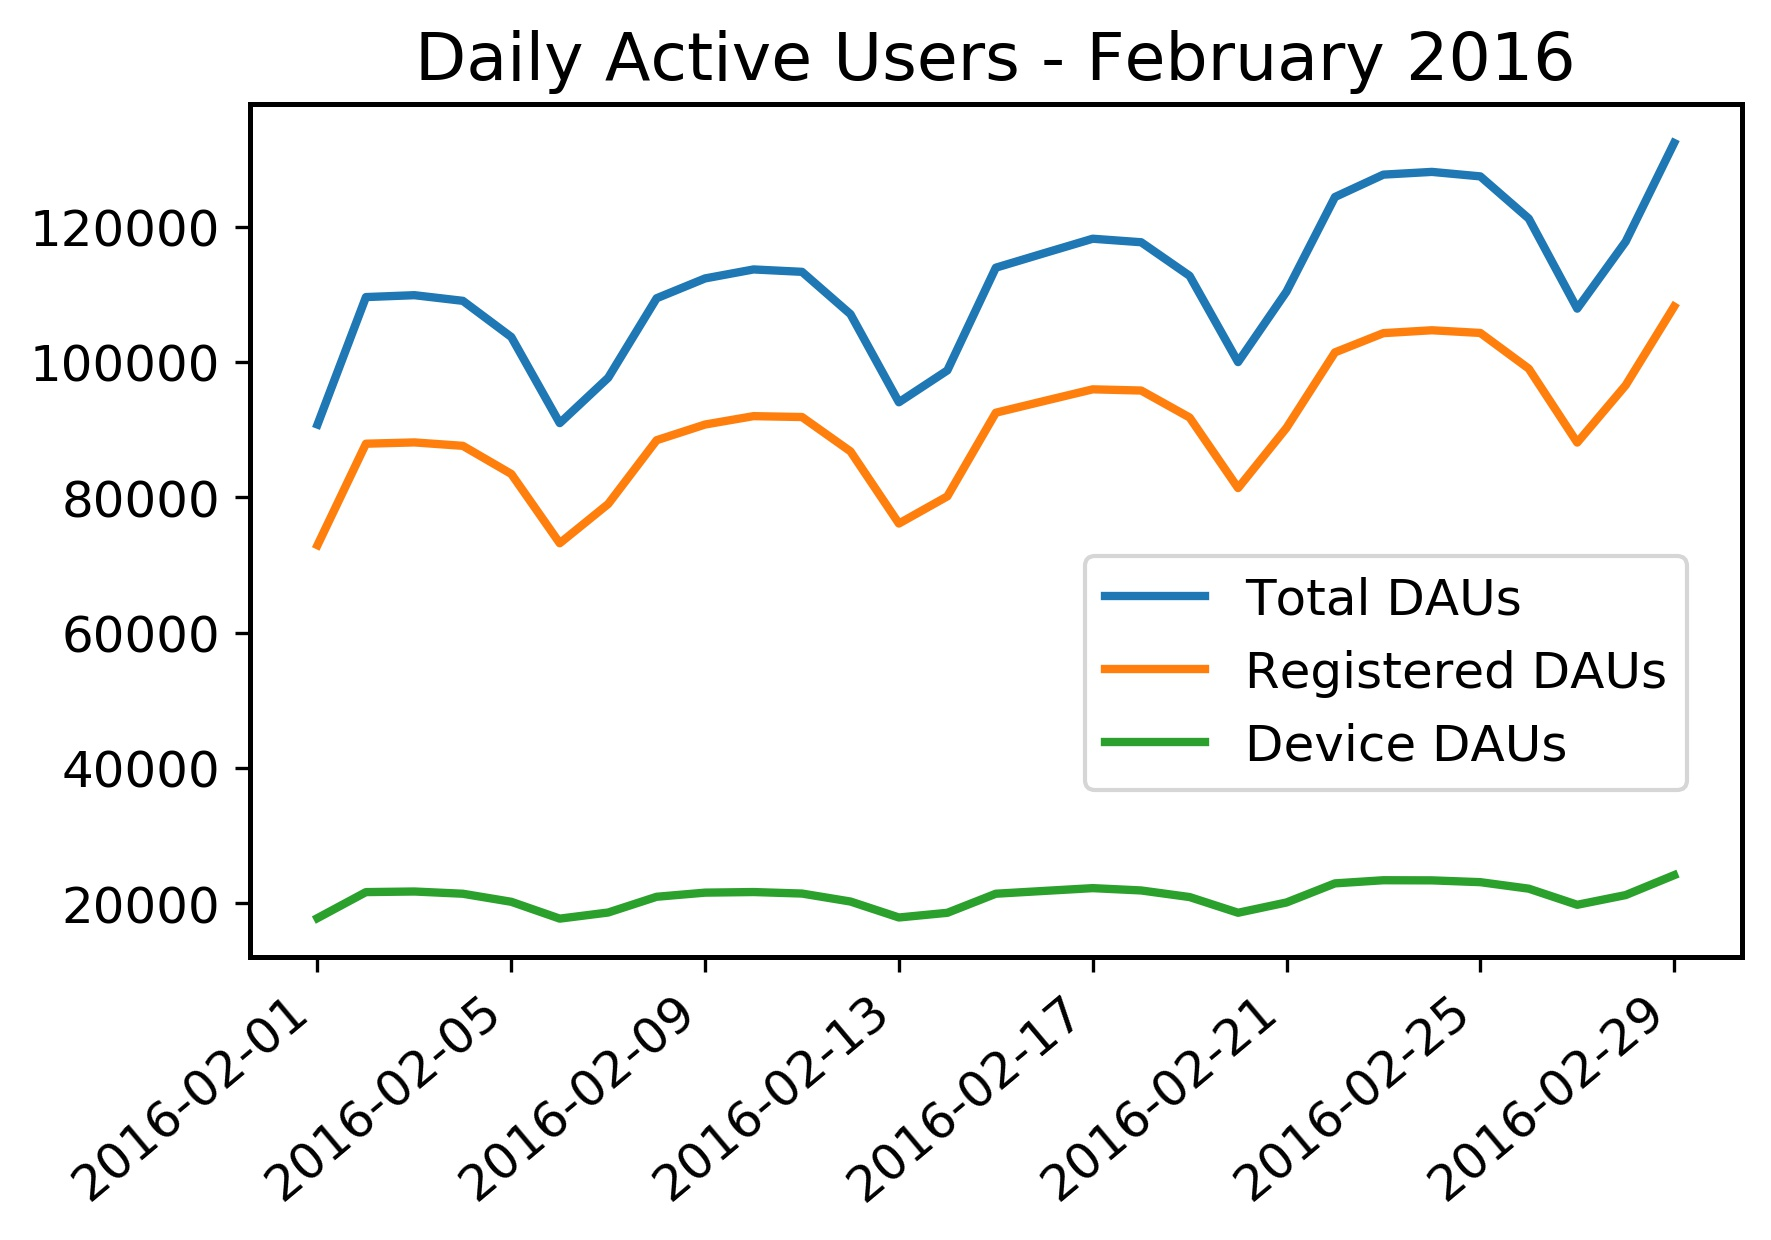
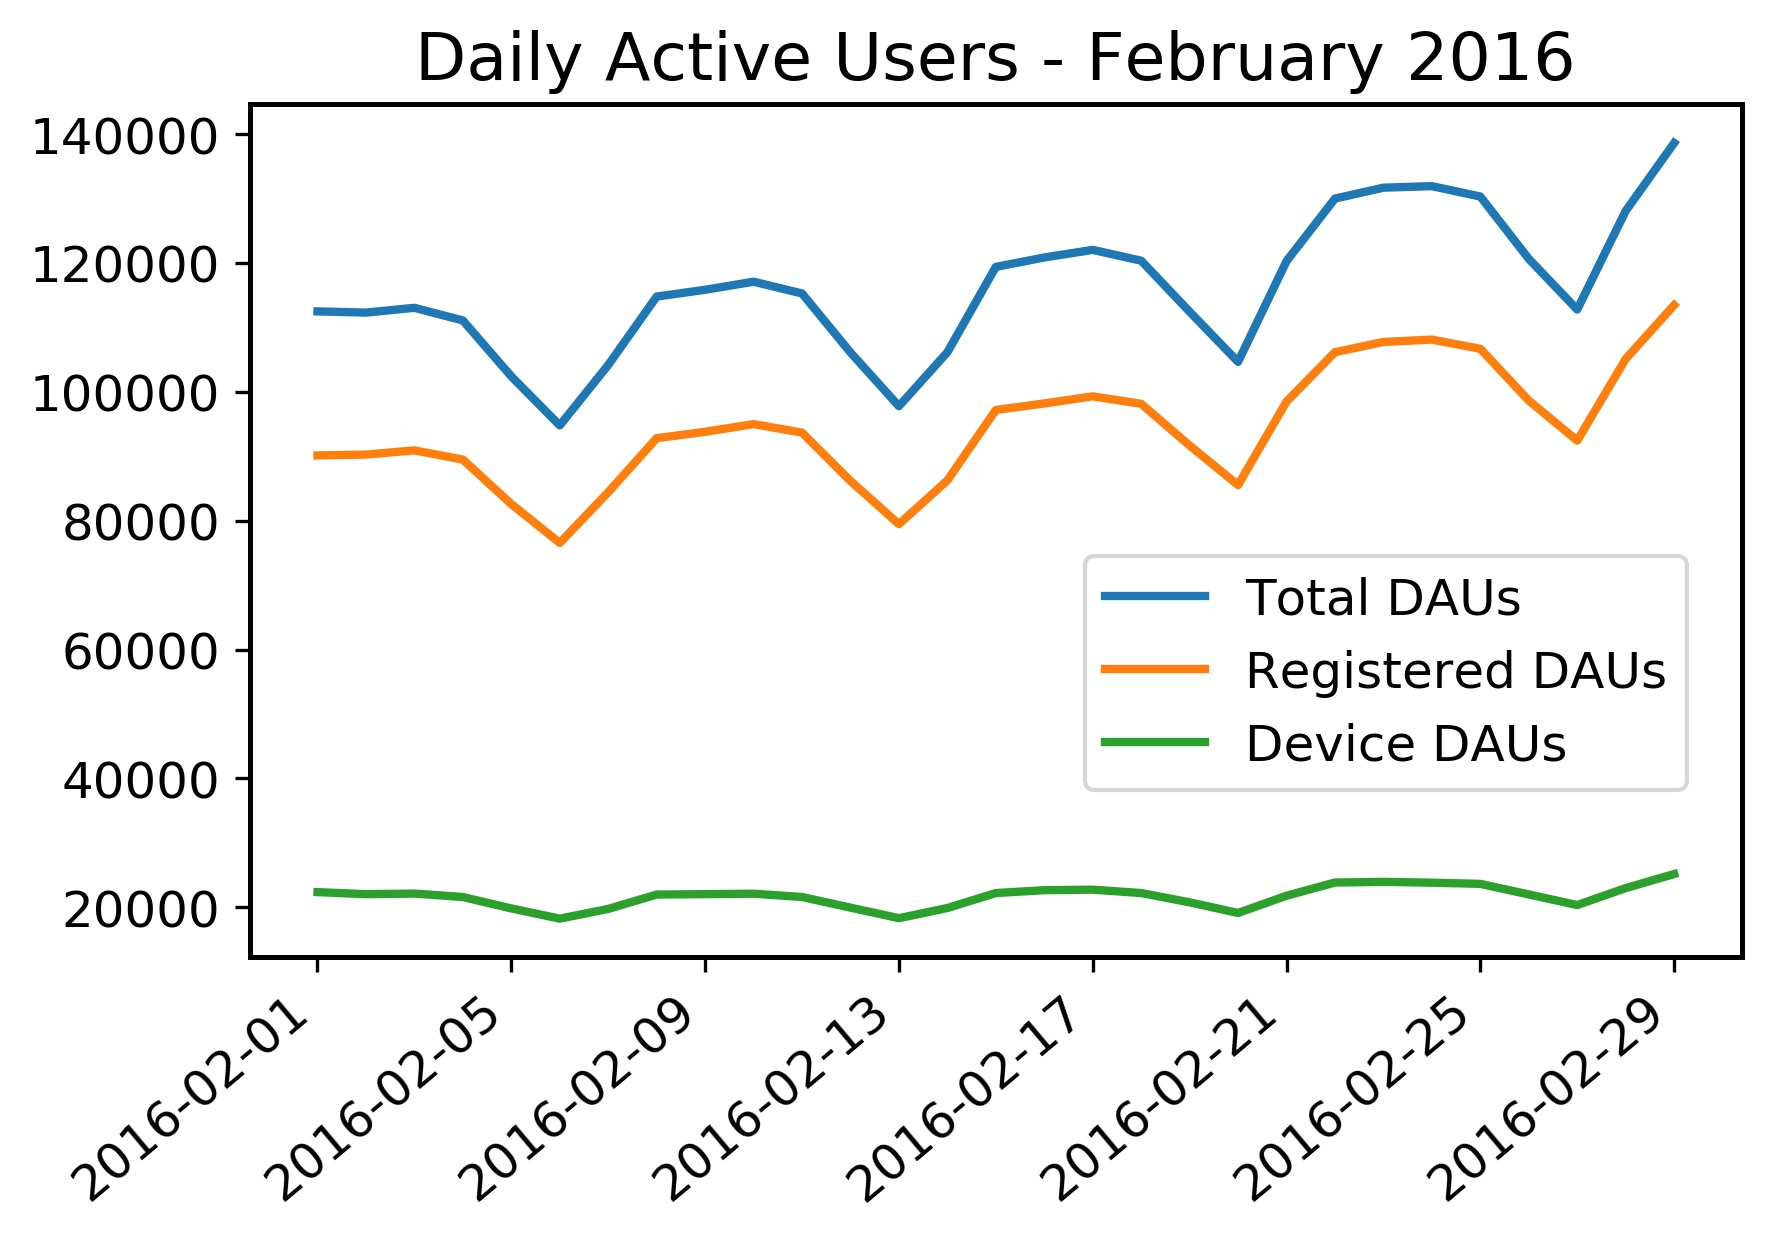
added DAU plot

diff --git a/README.md b/README.md
@@ -28,8 +28,24 @@ assigned to users? Can a missing value indicate that that user discovered the ap
 
 ## Measurement of key business metrics
 
-We move on to the tracking and measurement of key metrics to extract actionable insights and drive product growth.
+We move on to the tracking and measurement of key business metrics to extract actionable insights and drive product growth.
 
 ### Daily Active Users
 
-Daily active users (DAU) is a key metric to track and measure to understand how a product/app is used. I determined the number of daily active users for each day in February 2016, where a user is considered active if they had at least one ping on that day. I decided to plot both the total DAUs and the breakdown of registered DAUs (numeric `uid`) vs device DAUs (alpha-numeric `uid`). The obtained plot is the following:
+Daily active users (DAU) is a key metric to track to understand how a product/app is used. I determined the number of daily active users for each day in February 2016 (a user is considered active if they had at least one ping that day). I decided to plot both the total DAUs and the breakdown of registered DAUs (numeric `uid`) vs device DAUs (alpha-numeric `uid`). The obtained plot is the following:
+
+![alt_text](https://github.com/rmondini/product-analytics/blob/main/plots/DAU_plot.jpg?raw=true)
+
+We observe a very distinct weekly pattern: the number of DAUs stays constant Monday-Thursday, considerably drops on Friday and Saturday to reach the weekly minimum, and finally starts picking up again on Sunday. In addition to this weekly pattern, we observe an overall increasing trend over the month. For instance, using DAUs on Saturdays as a reference, the total DAUs on Feb 6th, 13th, 20th, and 27th are respectively 94807, 97788 (+2981), 104665 (+6877), and 112789 (+8124), which indicates an overall positive trend growing faster than linearly. These weekly and overall patterns are followed by both the registered DAU and device DAU lines. This analysis prompts us to investigate why the number of active users drops every Friday and Saturday. Is this an organic effect or are there other contributing factors? For instance, if the app is a work-related product (e.g. a productivity or project management app), reduced usage on Fridays compared to previous weekdays and greater reduced usage on Saturdays might just be a natural consequence of fewer people opening the app for work as the weekend begins. Along the same lines, a slightly increasing number of DAUs on Sundays might be explained as a number of people resuming job-related activities as the new work week approaches. In addition, if the app is used by people in different time zones and all timestamps are converted into a reference time zone (e.g. Pacific Time), it is certainly expected to observe these "weekend effects" spread out across Friday-Sunday instead of being strictly limited to Saturday and Sunday (e.g. Friday afternoon on the US West Coast corresponds to Friday night in Central Europe and Saturday in Asia, while Sunday afternoon on the West Coast corresponds to Monday morning in Asia).
+
+We should also consider analyzing why we observe an overall positive trend over the month. Can this trend be explained solely by looking at the context in which people use the app or is it the result of more successful marketing and advertising campaigns over time? It could be useful to compare this positive trend with DAU plots from February of previous years and other months of the year.
+
+Finally, the plot shows that the majority of DAUs are registered users. The percentage
+of registered DAUs slightly increases over the month (80.1% on Feb 1st, 81.4% on Feb 15th,
+and 81.8% on Feb 29th). It would be interesting to understand what causes this increase
+and discuss strategies to further drive conversion of unregistered DAUs (device DAUs) into
+registered users.
+
+
+
+
